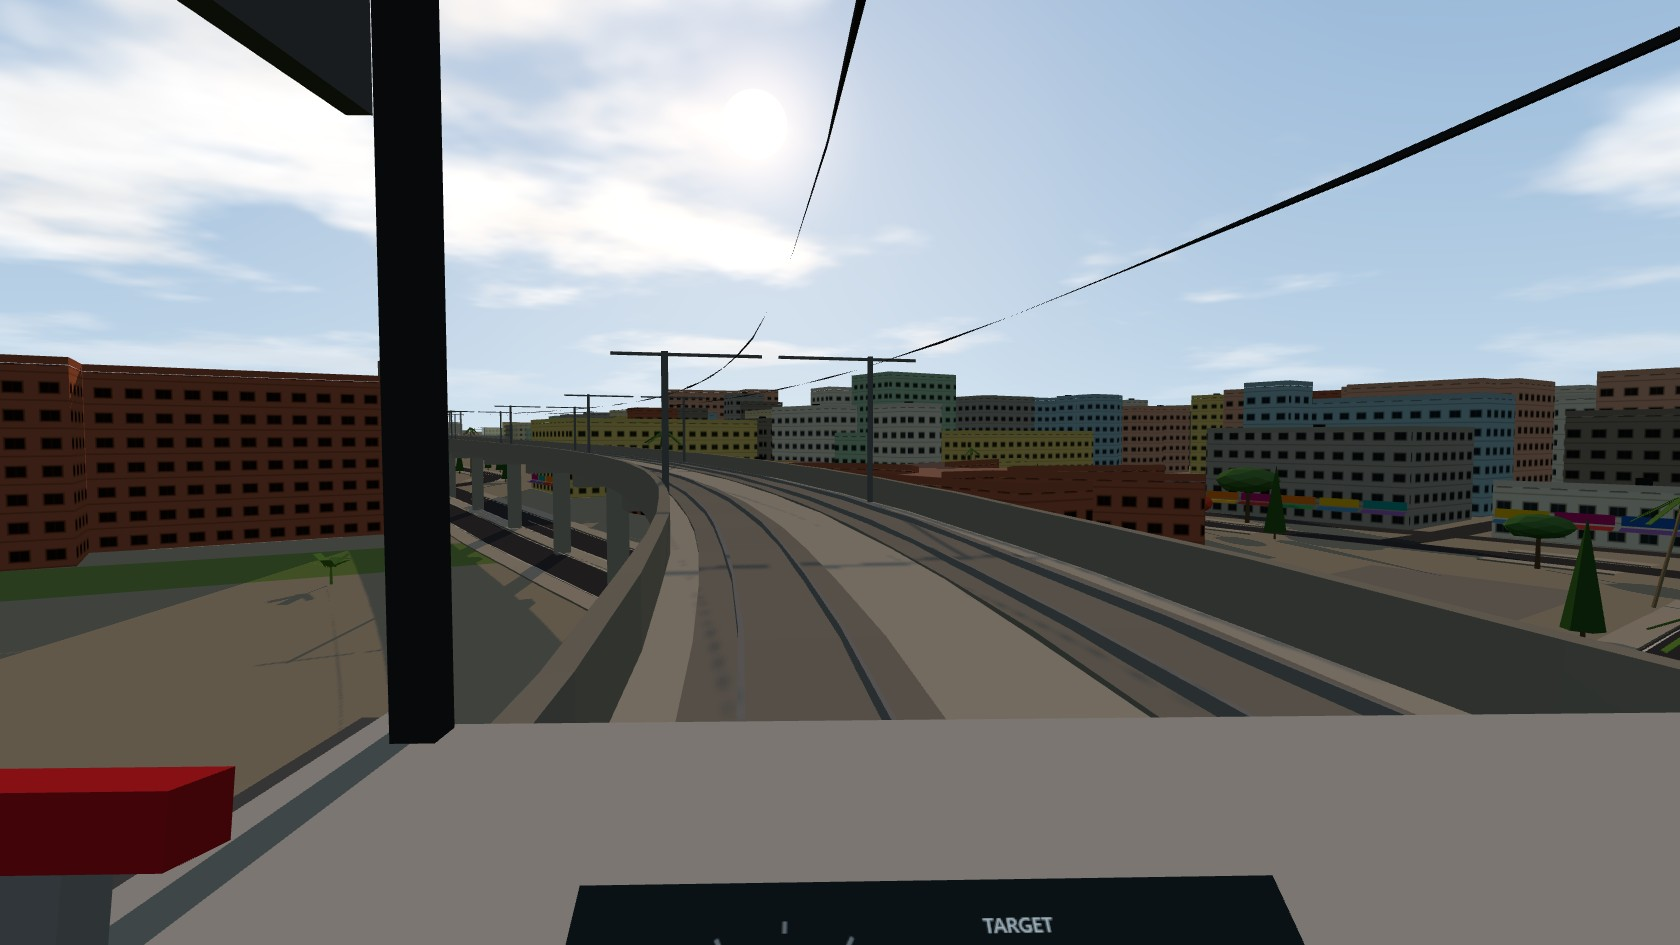
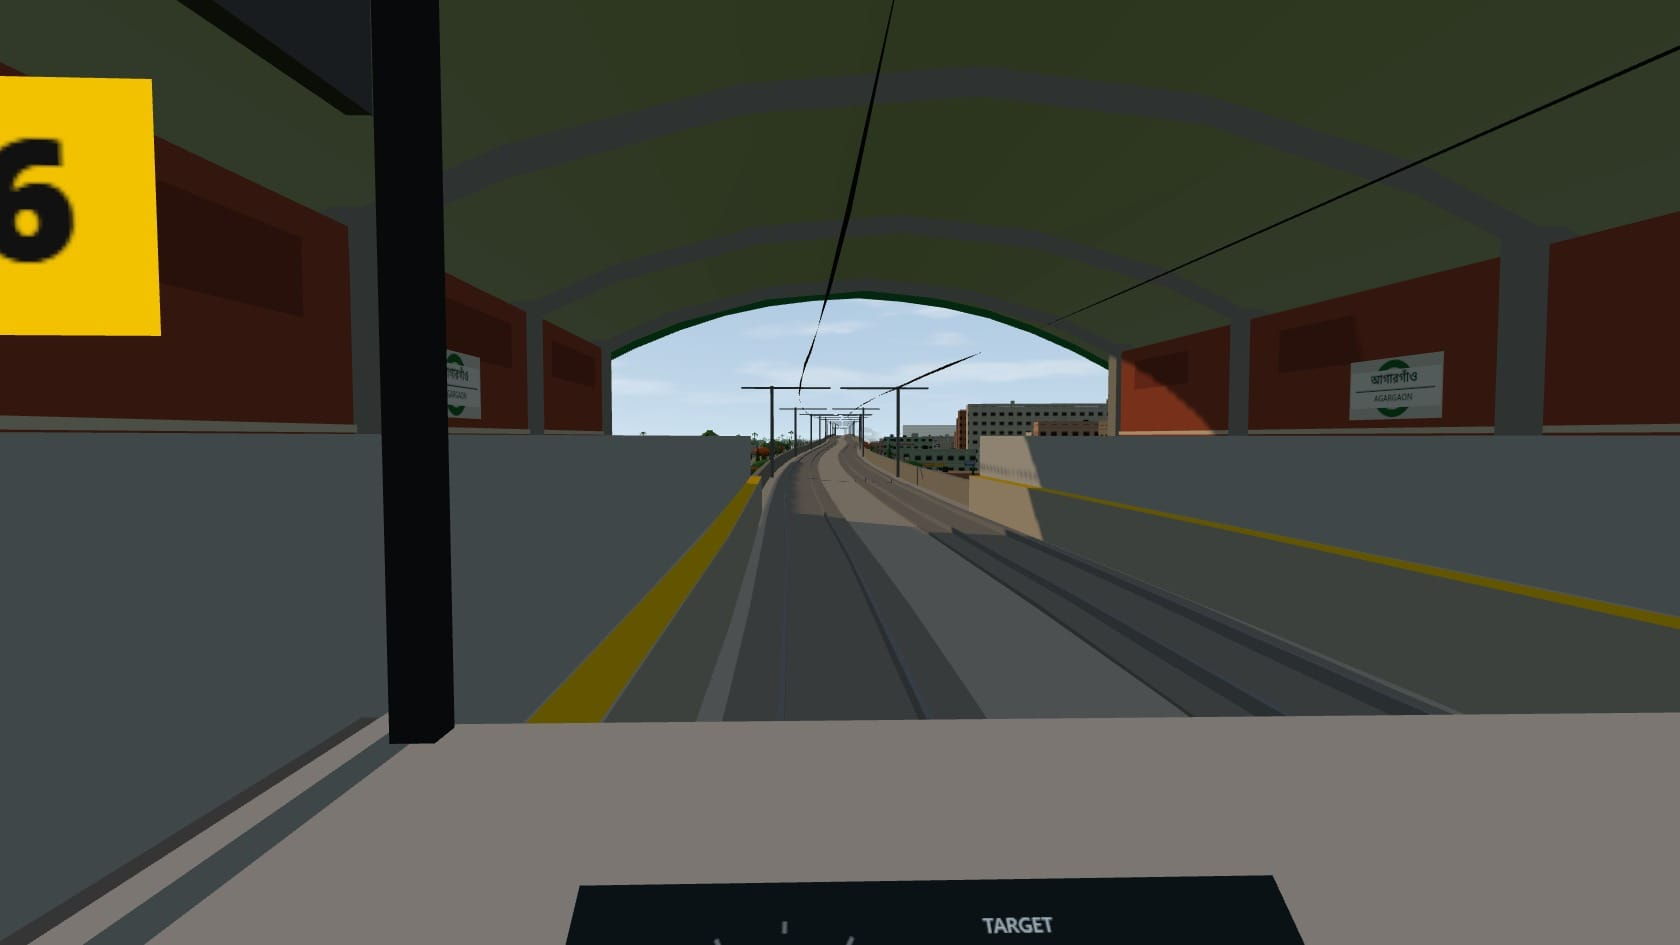
feat: release v1.5.0, MRT Line 6 polish
Bumps the version, adds the bilingual changelog entry and the release picture, retakes the three Metro README shots (Bijoy Sarani's fan arch, the cab at Agargaon, Karwan Bazar from the street) and records the as-built notes in the polish spec.

diff --git a/src/config/changelog.ts b/src/config/changelog.ts
@@ -11,6 +11,23 @@ export interface Release {
 
 export const CHANGELOG: Release[] = [
   {
+    version: '1.5.0',
+    date: '2026-11-03',
+    image: '1.5.0.jpg',
+    bn: [
+      'মেট্রো লাইন ৬-এর ১৬টি স্টেশন এখন আসলের মতো: টেরাকোটা দেয়াল, বাঁকা ছাদ, বাংলা-ইংরেজি নামফলক আর রাস্তার উপর কনকোর্স।',
+      'উত্তরা সেন্টারের সবুজ-লাল খিলান, বিজয় সরণির কাচের পাখা-খিলান, ফার্মগেটের নতুন রূপ আর উত্তরা উত্তরের চওড়া ছাদ।',
+      'ভায়াডাক্টের নিচের রাস্তায় এখন বাস, সিএনজি আর গাড়ি চলে; পাশে দোকানের সাইনবোর্ড, তারের জট, চায়ের দোকান আর মানুষ।',
+      'ছাদে পানির ট্যাংক, ডিশ আর লাইনের দিকে মুখ করা বিলবোর্ড; ঢাকা বিশ্ববিদ্যালয়, সোহরাওয়ার্দী উদ্যান আর রমনায় ঘন গাছ।',
+    ],
+    en: [
+      'All 16 MRT Line 6 stations now look like the real ones: terracotta walls, arched roofs, Bangla and English name signs, and a concourse over the road.',
+      'Uttara Center’s green and red arch, Bijoy Sarani’s glazed fan arch, a rebuilt Farmgate and Uttara North’s wide roof.',
+      'Buses, CNGs and cars drive the road under the viaduct, past shop signs, tangled wires, tea stalls and people.',
+      'Water tanks, dishes and billboards facing the line on the rooftops; dense trees at Dhaka University, Suhrawardy Udyan and Ramna.',
+    ],
+  },
+  {
     version: '1.4.0',
     date: '2026-11-03',
     image: '1.4.0.jpg',

diff --git a/README.md b/README.md
@@ -42,14 +42,16 @@ Take off from Hazrat Shahjalal International Airport and fly over Dhaka's skylin
 
 ### 🚇 Metro: drive MRT Line 6 *(new in 1.1.0)*
 
-![A six-car Line 6 train curving along the viaduct near Bijoy Sarani](docs/images/metro-hero.jpg)
+![Bijoy Sarani station's glazed fan arch over the road, with trees and street life below the viaduct](docs/images/metro-hero.jpg)
 
 Drive a six-car Dhaka Metro train along the whole of MRT Line 6, Uttara North to Motijheel: 16 stations on the real elevated alignment, with the city below. Work the master controller through power and brake notches while cab signalling and ATP watch your speed: go over the permitted speed and you get a warning, then the brakes. Stop on the mark so the train's doors line up with the platform screen doors, open them on the platform side, let people off and on, close up and wait for the dispatch signal. Keep to the timetable, with the train ahead and trains the other way sharing the line.
 
+**The stations and the city below** *(new in 1.5.0)*. Every station is modelled on the real one: terracotta walls under an arched steel roof, platform roundels and a fascia over the road in Bangla and English, and street entrances with exit letters. Uttara Center has its green and red arch, Bijoy Sarani its glazed fan arch, Farmgate its cream grid and teal roof with skywalks, and Uttara North the widest roof of all. Below the viaduct, buses, CNGs and cars drive past shop signs, tea stalls, tangled wires and rooftop billboards, and Dhaka University, Suhrawardy Udyan and Ramna are thick with trees.
+
 | | |
 |:-:|:-:|
-| ![The cab: the line curving ahead under the overhead wires](docs/images/metro-cab.jpg) | ![Passengers queued at the platform screen doors while the train's doors are open](docs/images/metro-station.jpg) |
-| *From the cab: the driver display shows speed, the permitted speed and the target* | *Platform screen doors, a waiting crowd and Bangla announcements* |
+| ![The cab at Agargaon: the arched roof, the stop marker and the station's roundels](docs/images/metro-cab.jpg) | ![Karwan Bazar station's fascia over the road, with traffic and street life under the viaduct](docs/images/metro-station.jpg) |
+| *From the cab at Agargaon: arched roof, stop marker and bilingual roundels* | *Karwan Bazar from the street: the fascia over the road, traffic and stalls below* |
 
 Seven cameras: the cab, chasing, on the platform, alongside, from the air, a passenger seat, and trackside.
 
@@ -137,7 +139,7 @@ The routes you've driven light up on the map, zoomed-in places name their landma
 |:-:|:-:|
 | ![The What's new card shown after an update](docs/images/whats-new.jpg) | ![The classic menu cards: Bus, Plane and Metro](docs/images/menu.jpg) |
 
-**Current version: 1.4.0**: Rooms, so friends can drive the Dhaka bus road together, plus wipers on every bus. 1.3.0 brought Dhaka to its real heights with Bangla shop signs, wires, stalls and people along the road; 1.2.2 kept the Bandarban bus on the Thanchi Road and moved Chimbuk's summit complex to where it really is; 1.2.1 added gamepad control for the metro, the passport card and landmark names on the map; 1.2.0 brought the map menu; 1.1.0 added Metro Mode on MRT Line 6.
+**Current version: 1.5.0**: MRT Line 6 polished, with all 16 stations modelled on the real ones, traffic and street life under the viaduct, and dense trees around Dhaka University. 1.4.0 added Rooms, so friends can drive the Dhaka bus road together, plus wipers on every bus; 1.3.0 brought Dhaka to its real heights with Bangla shop signs, wires, stalls and people along the road; 1.2.2 kept the Bandarban bus on the Thanchi Road and moved Chimbuk's summit complex to where it really is; 1.2.1 added gamepad control for the metro, the passport card and landmark names on the map; 1.2.0 brought the map menu; 1.1.0 added Metro Mode on MRT Line 6.
 
 ## Build it yourself
 

diff --git a/docs/polish-spec.md b/docs/polish-spec.md
@@ -111,7 +111,9 @@ GLO-30 includes the forest canopy. The current filter (min ±30 m, blur ±30 m) 
 - **Jhum patches** (slash-and-burn clearings) on the slopes, as ground colour only.
 - **No undergrowth.** Bandarban's chunks are already the heaviest (287k triangles at LOD 0).
 
-## 6. MRT Line 6 (v1.5)
+## 6. MRT Line 6 (v1.5, built 2026-11-03)
+
+As built: the stations are `scripts/bake/stations.ts` (types A about 4.6k triangles, B 4.9k, C 6.0k, D 5.2k), laid out in a frame that follows the track. Their signs come from a per-line atlas Metro Mode paints from the line's station names (`src/shared/stationAtlas.ts`, `src/render/stationAtlas.ts`; a `station` chunk layer), because the street-sign atlas was full and resizing it would have moved Dhaka's baked UVs. The baked roundels replace the runtime name boards. Uttara North draws 7 runs of the other OSM track as depot track; its layout is still unconfirmed. The Dhaka Farmgate hero (`farmgateMetro`) is restyled as type D. Along the line the street-life kit runs at C within 150 m of the viaduct, with rooftop clutter and about 960 billboards facing it (`rooftop` in `streetlife.ts`). Three grove circles (Dhaka University and Suhrawardy Udyan, Ramna, the Secretariat green) bring the Region to about 10,300 trees. Metro Mode runs the Dhaka traffic mix on the streets under the viaduct, centred below the train. To stay in budget, metro Regions keep only the lanes within 500 m of the line (`lanes.json` 20.6 → 3.6 MB): Line 6 is 47 MB on disk, 43.6 MB of it GLB.
 
 [Research how the Line 6 stations really differ](wayfinder/polish/tickets/003-research-line6-stations.md), [Shape the four station models](wayfinder/polish/tickets/010-shape-line6-station-models.md), [prototype](../prototypes/line6-stations/PROTOTYPE-line6-stations.html), [research](research/line6-stations.md)
 
